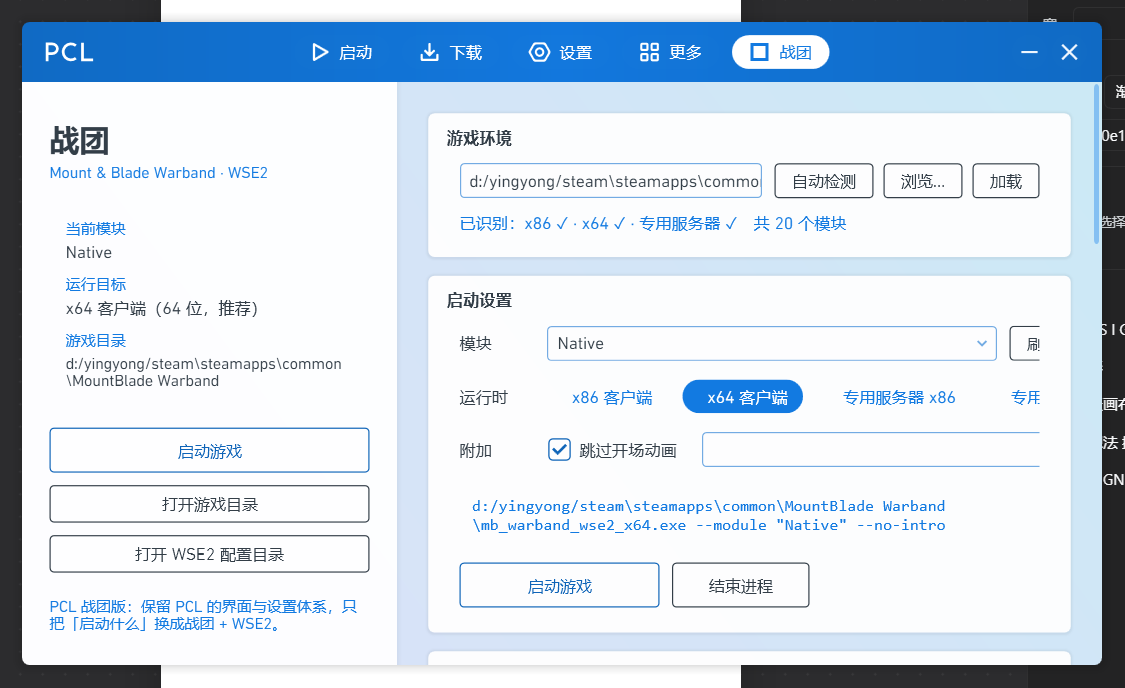
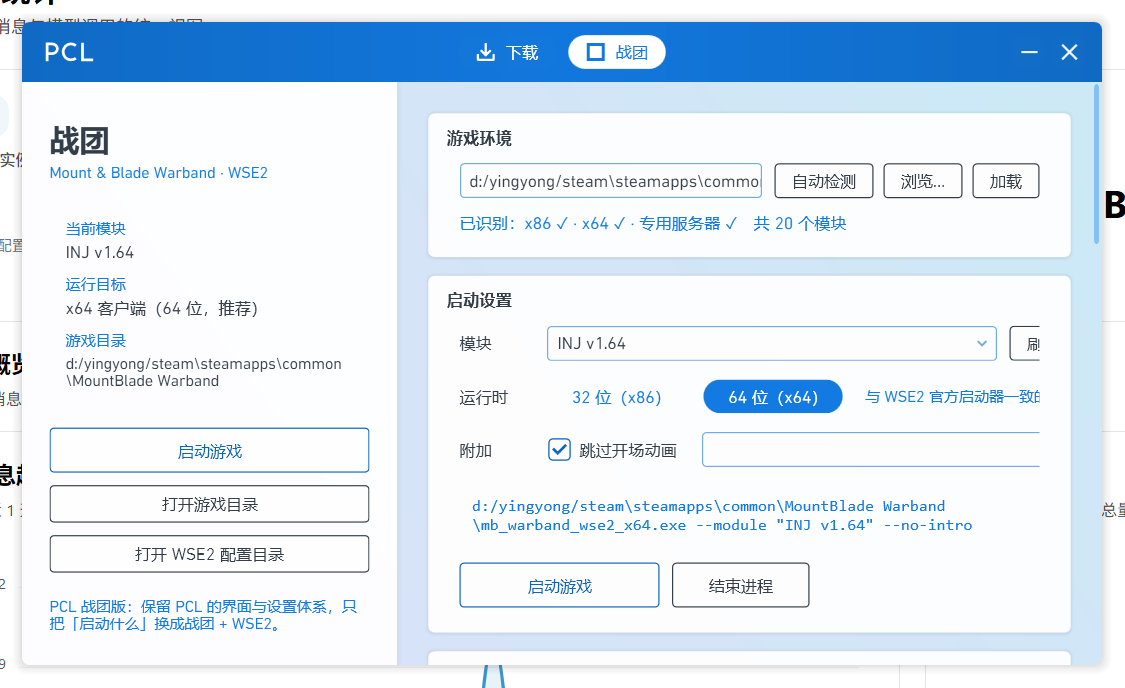
feat(warband): 顶部只留战团+下载、下载页改为 mod 链接库、运行时收敛为两档、修复启动到错误模块

diff --git a/Plain Craft Launcher 2/Pages/PageWarband/PageWarbandDownload.xaml b/Plain Craft Launcher 2/Pages/PageWarband/PageWarbandDownload.xaml
@@ -1,0 +1,57 @@
+<local:MyPageRight
+    xmlns="http://schemas.microsoft.com/winfx/2006/xaml/presentation"
+    xmlns:x="http://schemas.microsoft.com/winfx/2006/xaml"
+    xmlns:local="clr-namespace:PCL"
+    xmlns:d="http://schemas.microsoft.com/expression/blend/2008"
+    xmlns:mc="http://schemas.openxmlformats.org/markup-compatibility/2006"
+    mc:Ignorable="d" x:Class="PageWarbandDownload"
+    PanScroll="PanBack" d:DesignWidth="800" d:DesignHeight="900">
+    <local:MyScrollViewer x:Name="PanBack" VerticalScrollBarVisibility="Auto" HorizontalScrollBarVisibility="Disabled">
+        <StackPanel Margin="25,10">
+
+            <local:MyCard Title="模组下载" Margin="0,15">
+                <StackPanel Margin="25,40,25,20">
+                    <TextBlock TextWrapping="Wrap" Foreground="{DynamicResource ColorBrush3}"
+                               Text="这里集中放战团 mod 的下载入口：每个条目都能一键跳到「骑砍中文站」站内搜索，也可以自己填网盘链接与提取码（保存在本机 mods.json，不会上传）。" />
+                    <StackPanel Orientation="Horizontal" Margin="0,14,0,0">
+                        <local:MyTextBox x:Name="TextSearch" Width="240" Height="28" ToolTip="按名称过滤下面的列表" />
+                        <local:MyButton x:Name="BtnRefresh" Text="刷新列表" Height="28" Padding="13,5" Margin="10,0,0,0" />
+                        <local:MyButton x:Name="BtnOpenData" Text="打开数据文件" Height="28" Padding="13,5" Margin="8,0,0,0" />
+                        <local:MyButton x:Name="BtnChineseSite" Text="打开骑砍中文站" Height="28" Padding="13,5" Margin="8,0,0,0" />
+                    </StackPanel>
+                    <StackPanel x:Name="PanEntries" Margin="0,16,0,0" />
+                </StackPanel>
+            </local:MyCard>
+
+            <local:MyCard Title="填写 / 修改网盘地址" Margin="0,0,0,15">
+                <StackPanel Margin="25,40,25,20">
+                    <TextBlock x:Name="LabEditing" TextWrapping="Wrap" Foreground="{DynamicResource ColorBrush3}"
+                               Text="在下面的列表里点某个条目的「填写网盘」，这里就会切换到那一条。" />
+                    <Grid Margin="0,14,0,0">
+                        <Grid.ColumnDefinitions>
+                            <ColumnDefinition Width="70" />
+                            <ColumnDefinition Width="1*" />
+                        </Grid.ColumnDefinitions>
+                        <Grid.RowDefinitions>
+                            <RowDefinition Height="Auto" />
+                            <RowDefinition Height="Auto" />
+                            <RowDefinition Height="Auto" />
+                        </Grid.RowDefinitions>
+                        <TextBlock Grid.Row="0" Grid.Column="0" Text="网盘链接" VerticalAlignment="Center" Margin="0,0,0,10" />
+                        <local:MyTextBox x:Name="TextPanUrl" Grid.Row="0" Grid.Column="1" Height="28" Margin="0,0,0,10"
+                                         ToolTip="例如 https://pan.baidu.com/s/xxxx 或 https://www.123pan.com/s/xxxx" />
+                        <TextBlock Grid.Row="1" Grid.Column="0" Text="提取码" VerticalAlignment="Center" Margin="0,0,0,10" />
+                        <local:MyTextBox x:Name="TextPanCode" Grid.Row="1" Grid.Column="1" Height="28" Width="160" HorizontalAlignment="Left" Margin="0,0,0,10" />
+                        <StackPanel Grid.Row="2" Grid.Column="1" Orientation="Horizontal">
+                            <local:MyButton x:Name="BtnSaveEntry" Text="保存到本机" ColorType="Highlight" Height="30" MinWidth="140" Padding="14,5" />
+                            <TextBlock x:Name="LabSaveStatus" VerticalAlignment="Center" Margin="14,0,0,0" Foreground="{DynamicResource ColorBrush3}" />
+                        </StackPanel>
+                    </Grid>
+                </StackPanel>
+            </local:MyCard>
+
+            <TextBlock TextWrapping="Wrap" FontSize="12" Foreground="{DynamicResource ColorBrush3}" Margin="4,0,4,20"
+                       Text="说明：本页只提供链接跳转，不托管也不转存任何文件；网盘链接默认留空，请自行填写并注意来源与版权。界面与设置体系来自 PCL2（© 龙腾猫跃），本作是基于 PCL 的第三方修改版。" />
+        </StackPanel>
+    </local:MyScrollViewer>
+</local:MyPageRight>

diff --git a/Plain Craft Launcher 2/FormMain.xaml b/Plain Craft Launcher 2/FormMain.xaml
@@ -118,7 +118,7 @@
                         <TextBlock x:Name="LabTitleLogo" Visibility="Collapsed" SnapsToDevicePixels="False" UseLayoutRounding="False" IsHitTestVisible="False" HorizontalAlignment="Left" Margin="18,0,0,0" Foreground="White" FontSize="17" VerticalAlignment="Center" />
                         <local:MyImage x:Name="ImageTitleLogo" SnapsToDevicePixels="False" UseLayoutRounding="False" IsHitTestVisible="False" HorizontalAlignment="Left" Margin="7" VerticalAlignment="Center" Visibility="Collapsed" />
                         <StackPanel Grid.Column="1" x:Name="PanTitleSelect" HorizontalAlignment="Left" Height="27" VerticalAlignment="Center" Orientation="Horizontal" Margin="13,0">
-                            <local:MyRadioButton x:Name="BtnTitleSelect0" Text="启动" Tag="0" Margin="5,0" Checked="True" Padding="2,0"
+                            <local:MyRadioButton x:Name="BtnTitleSelect0" Text="启动" Tag="0" Margin="5,0" Checked="True" Padding="2,0" Visibility="Collapsed"
                                              LogoScale="0.9" Logo="M52.1,164.5c-1.4,0-3.1-0.5-4.2-1.3c-2.6-1.7-4-4.2-4-7V43.8c0-2.9,1.6-5.8,4.1-7c1.2-0.8,2.7-1.2,4.1-1.2c1.5,0,2.9,0.4,4.2,1.2L153.1,93c0,0,0.1,0,0.1,0.1c2.6,1.7,4,4.2,4,7c0,3-1.7,5.8-4.2,7.1l-96.8,56.2C55.1,164,53.5,164.5,52.1,164.5z M60.4,142.1l72.1-42.1L60.4,58.2V142.1z" />
                             <local:MyRadioButton x:Name="BtnTitleSelect1" Text="下载" Tag="1" Margin="5,0" Padding="2,0"
                                              LogoScale="0.9" Logo="M955 610h-59c-15 0-29 13-29 29v196c0 15-13 29-29 29h-649c-15 0-29-13-29-29v-196c0-15-13-29-29-29h-59c-15 0-29 13-29 29V905c0 43 35 78 78 78h787c43 0 78-35 78-78V640c0-15-13-29-29-29zM492 740c11 11 29 11 41 0l265-265c11-11 11-29 0-41l-41-41c-11-11-29-11-41 0l-110 110c-11 11-33 3-33-13V68C571 53 555 39 541 39h-59c-15 0-29 13-29 29v417c0 17-21 25-33 13l-110-110c-11-11-29-11-41 0L226 433c-11 11-11 29 0 41L492 740z" />

diff --git a/Plain Craft Launcher 2/Pages/PageWarband/PageWarbandRight.xaml b/Plain Craft Launcher 2/Pages/PageWarband/PageWarbandRight.xaml
@@ -39,10 +39,11 @@
 
                     <StackPanel Orientation="Horizontal" Margin="0,15,0,0">
                         <TextBlock Text="运行时" VerticalAlignment="Center" Width="70" />
-                        <local:MyRadioButton x:Name="RadioX86" Text="x86 客户端" Tag="0" ColorType="Highlight" Margin="0,0,12,0" />
-                        <local:MyRadioButton x:Name="RadioX64" Text="x64 客户端" Tag="1" ColorType="Highlight" Margin="0,0,12,0" />
-                        <local:MyRadioButton x:Name="RadioDedicated" Text="专用服务器 x86" Tag="2" ColorType="Highlight" Margin="0,0,12,0" />
-                        <local:MyRadioButton x:Name="RadioDedicatedX64" Text="专用服务器 x64" Tag="3" ColorType="Highlight" />
+                        <local:MyRadioButton x:Name="RadioX86" Text="32 位（x86）" Tag="0" ColorType="Highlight" Margin="0,0,14,0" />
+                        <local:MyRadioButton x:Name="RadioX64" Text="64 位（x64）" Tag="1" ColorType="Highlight" />
+                        <TextBlock x:Name="LabRuntimeHint" VerticalAlignment="Center" Margin="18,0,0,0" FontSize="12"
+                                   Foreground="{DynamicResource ColorBrush3}"
+                                   Text="与 WSE2 官方启动器一致的两档；大型 mod 请用 x64（32 位只有 2GB 地址空间）。" />
                     </StackPanel>
 
                     <StackPanel Orientation="Horizontal" Margin="0,15,0,0">

diff --git a/Plain Craft Launcher 2/Pages/PageWarband/PageWarbandLeft.xaml b/Plain Craft Launcher 2/Pages/PageWarband/PageWarbandLeft.xaml
@@ -30,6 +30,9 @@
             <TextBlock Text="PCL 战团版：保留 PCL 的界面与设置体系，只把「启动什么」换成战团 + WSE2。"
                        TextWrapping="Wrap" FontSize="12" Margin="0,20,0,0"
                        Foreground="{DynamicResource ColorBrush3}" />
+            <TextBlock Text="界面框架来自 PCL2（© 龙腾猫跃），本作是基于 PCL 的第三方修改版，继续适用 PCL 的分发许可。"
+                       TextWrapping="Wrap" FontSize="11" Margin="0,8,0,0" Opacity="0.75"
+                       Foreground="{DynamicResource ColorBrush3}" />
         </StackPanel>
     </Grid>
 </local:MyPageLeft>
